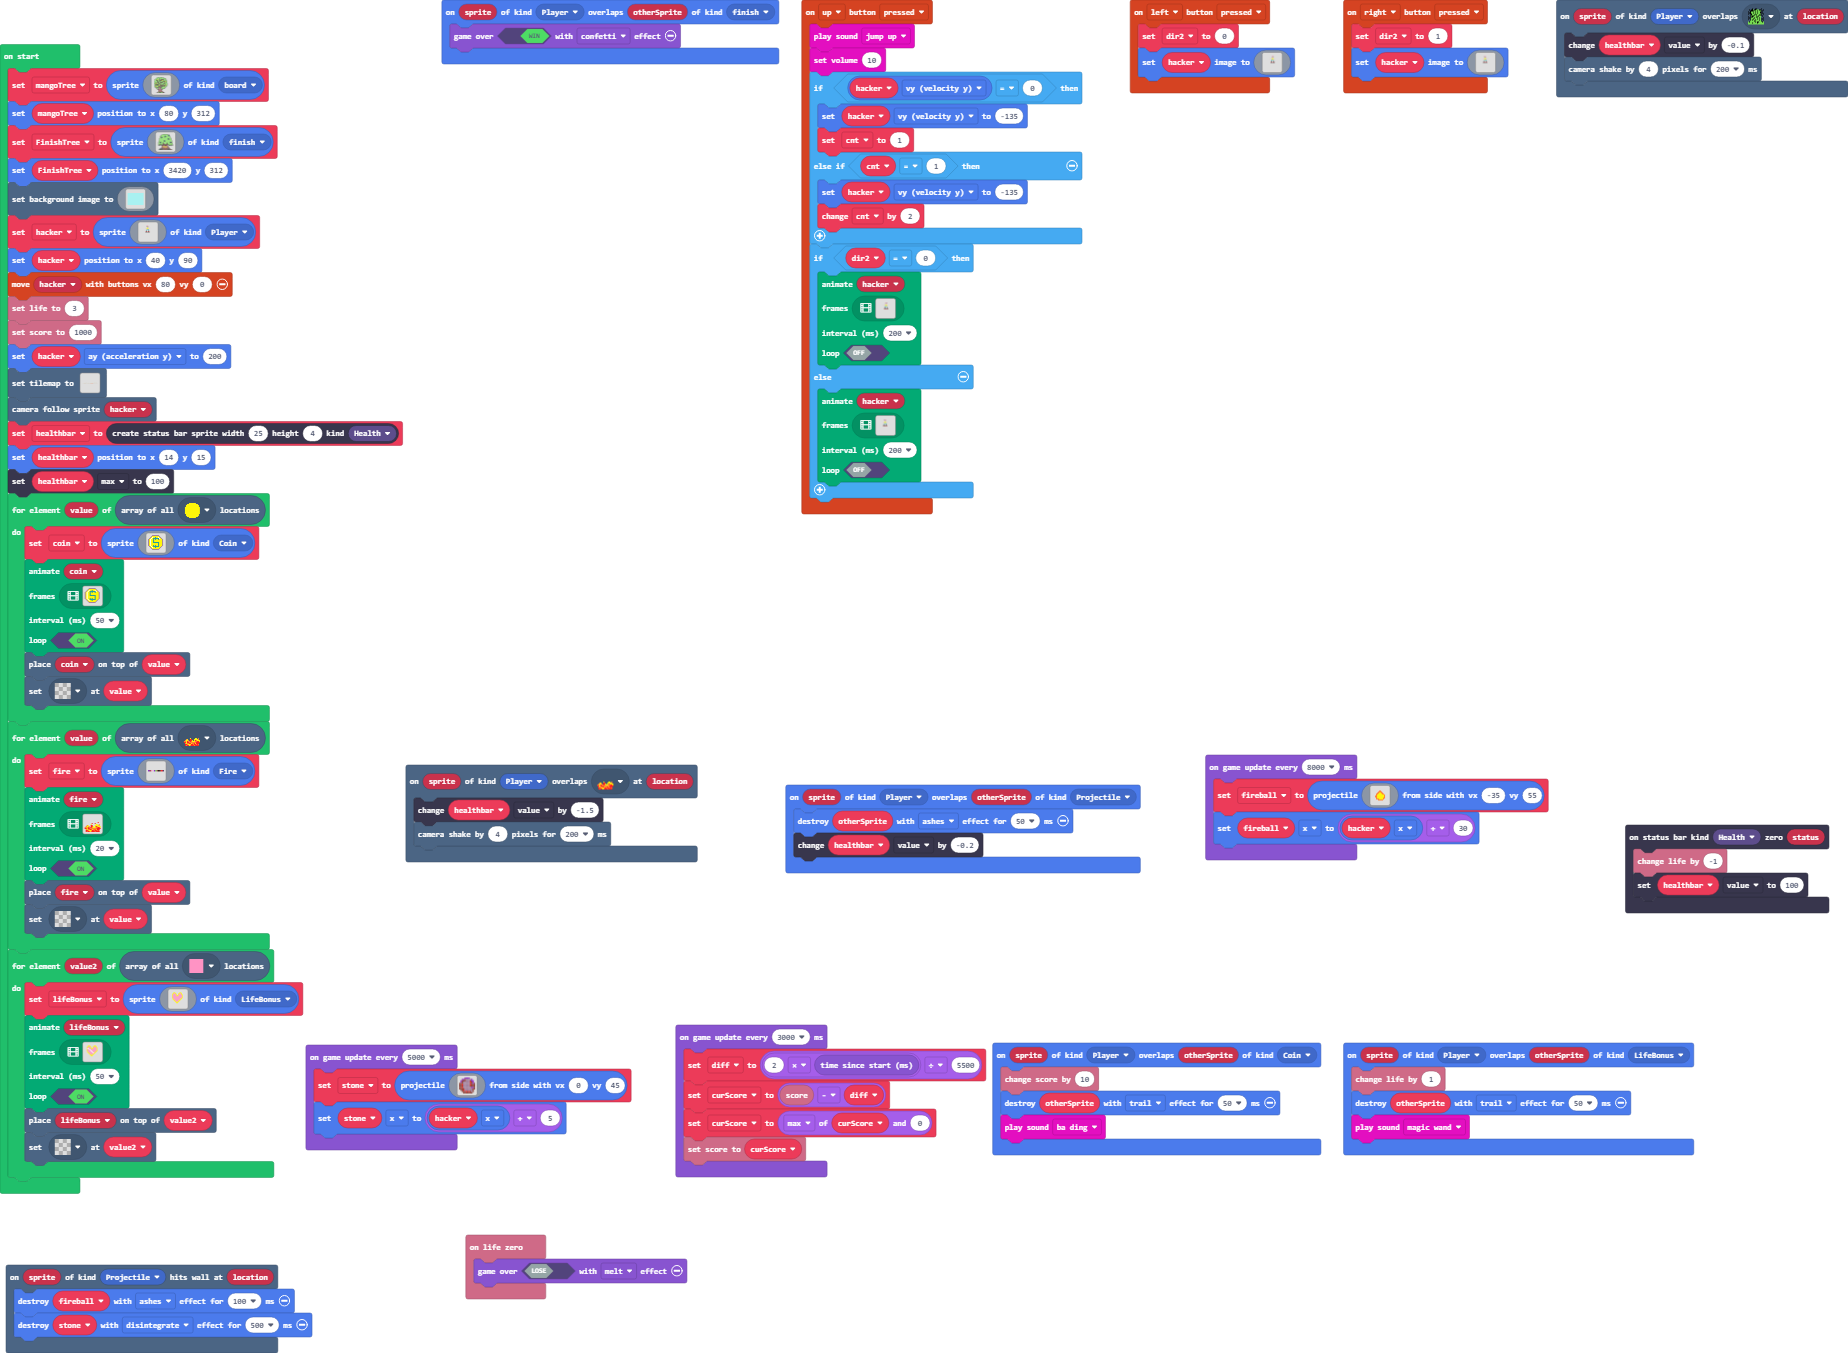
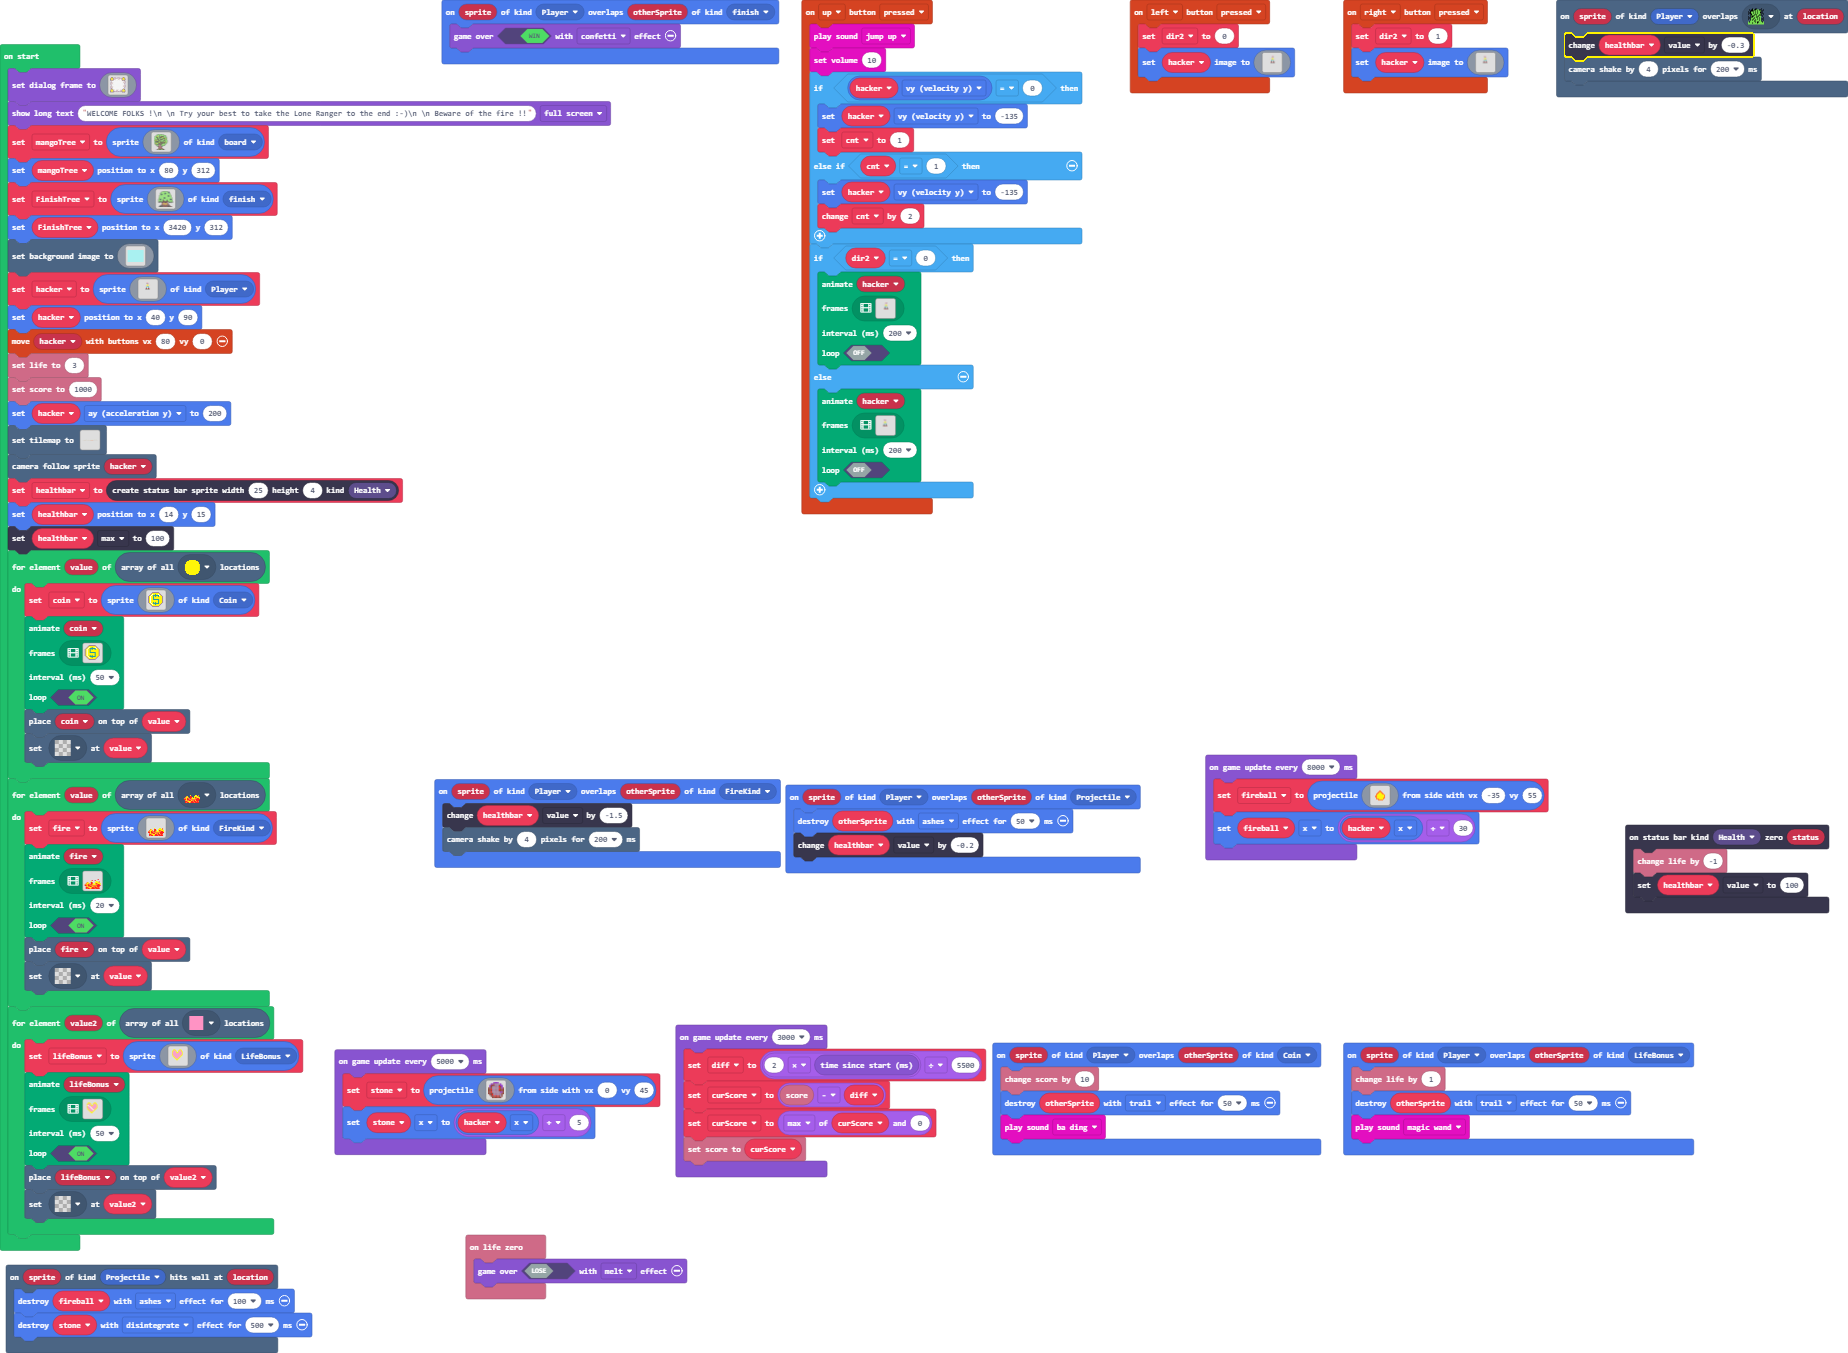
Update main.blocks, main.ts, main.py, tilemap.g.jres, tilemap.g.ts, images.g.jres, images.g.ts

Changed region(s): [[0.0, 0.031, 0.3701, 0.9313], [0.2159, 0.5588, 0.4318, 0.6519]]

diff --git a/main.ts b/main.ts
@@ -46,6 +46,10 @@ sprites.onOverlap(SpriteKind.Player, SpriteKind.Coin, function (sprite, otherSpr
     otherSprite.destroy(effects.trail, 50)
     music.baDing.play()
 })
+sprites.onOverlap(SpriteKind.Player, SpriteKind.FireKind, function (sprite, otherSprite) {
+    healthbar.value += -1.5
+    scene.cameraShake(4, 200)
+})
 controller.left.onEvent(ControllerButtonEvent.Pressed, function () {
     dir2 = 0
     hacker.setImage(assets.image`Temporary asset3`)
@@ -63,7 +67,7 @@ sprites.onOverlap(SpriteKind.Player, SpriteKind.Projectile, function (sprite, ot
     healthbar.value += -0.2
 })
 scene.onOverlapTile(SpriteKind.Player, assets.tile`cactus`, function (sprite, location) {
-    healthbar.value += -0.1
+    healthbar.value += -0.3
     scene.cameraShake(4, 200)
 })
 info.onLifeZero(function () {
@@ -72,10 +76,6 @@ info.onLifeZero(function () {
 scene.onHitWall(SpriteKind.Projectile, function (sprite, location) {
     fireball.destroy(effects.ashes, 100)
     stone.destroy(effects.disintegrate, 500)
-})
-scene.onOverlapTile(SpriteKind.Player, assets.tile`fireTop`, function (sprite, location) {
-    healthbar.value += -1.5
-    scene.cameraShake(4, 200)
 })
 let curScore = 0
 let diff = 0
@@ -88,6 +88,42 @@ let fire: Sprite = null
 let coin: Sprite = null
 let healthbar: StatusBarSprite = null
 let hacker: Sprite = null
+game.setDialogFrame(img`
+    ...cc......................cc....
+    ..c55c..bbbb...bbbbb......c55c...
+    .cb55bcbdddbbbbbdddbbbbbbcb55bc..
+    b555555bbdddb111bdddb11db555555b.
+    bb5555bbdbdb11111bdb1111bb5555bb.
+    cb5555bcddd11111ddd11111cb5555bc.
+    .c5bb5c1111d111d111d111ddc5bb5c..
+    .cbbbbc111111111111111111cbbbbc..
+    ..b11111111111111111111111d111bb.
+    ..b111111111111111111111111d1bdb.
+    ..bb11111111111111111111111dbddb.
+    .bbdb1d11111111111111111111ddddb.
+    .bdddd11111111111111111111d1bdbb.
+    .bddbd11111111111111111111111bb..
+    .bdb1d111111111111111111111111b..
+    .bb111d11111111111111111111111b..
+    ..b11111111111111111111111d111bb.
+    ..b111111111111111111111111d1bdb.
+    ..bb11111111111111111111111dbddb.
+    .bbdb1d11111111111111111111ddddb.
+    .bdddd11111111111111111111d1bdbb.
+    .bddbd11111111111111111111111bb..
+    .bdbb1111111111111111111111111b..
+    .bbbd1111111111111111111111111b..
+    ..bcc111111111111111111111dccdb..
+    ..c55c111d111d111d111d1111c55cb..
+    .cb55bcdd11111ddd11111dddcb55bc..
+    b555555b11111bdb11111bdbb555555b.
+    bb5555bbb111bdddb111bdddbb5555bb.
+    cb5555bcdbbbbbdddbbbbbddcb5555bc.
+    .c5bb5c.bb...bbbbb...bbbbc5bb5c..
+    .cbbbbc..................cbbbbc..
+    .................................
+    `)
+game.showLongText("WELCOME FOLKS !\\n \\n Try your best to take the Lone Ranger to the end :-)\\n \\n Beware of the fire !!", DialogLayout.Full)
 let mangoTree = sprites.create(assets.image`mangoTree`, SpriteKind.board)
 mangoTree.setPosition(80, 312)
 let FinishTree = sprites.create(assets.image`finishTree`, SpriteKind.finish)
@@ -237,9 +273,7 @@ for (let value of tiles.getTilesByType(assets.tile`tileCoin`)) {
     tiles.setTileAt(value, assets.tile`transparency16`)
 }
 for (let value of tiles.getTilesByType(assets.tile`fireTop`)) {
-    fire = sprites.create(img`
-        a e 3 . a 7 e f e 2 c 
-        `, SpriteKind.Fire)
+    fire = sprites.create(assets.image`fireTopimage`, SpriteKind.FireKind)
     animation.runImageAnimation(
     fire,
     assets.animation`fireAnim`,

diff --git a/images.g.ts b/images.g.ts
@@ -1583,6 +1583,72 @@ a e 3 . a 7 e f e 2 c
             case "image26":return img`
 a e 3 . a 7 e f e 2 c 
 `;
+            case "image27":return img`
+...cc......................cc....
+..c55c..bbbb...bbbbb......c55c...
+.cb55bcbdddbbbbbdddbbbbbbcb55bc..
+b555555bbdddb111bdddb11db555555b.
+bb5555bbdbdb11111bdb1111bb5555bb.
+cb5555bcddd11111ddd11111cb5555bc.
+.c5bb5c1111d111d111d111ddc5bb5c..
+.cbbbbc111111111111111111cbbbbc..
+..b11111111111111111111111d111bb.
+..b111111111111111111111111d1bdb.
+..bb11111111111111111111111dbddb.
+.bbdb1d11111111111111111111ddddb.
+.bdddd11111111111111111111d1bdbb.
+.bddbd11111111111111111111111bb..
+.bdb1d111111111111111111111111b..
+.bb111d11111111111111111111111b..
+..b11111111111111111111111d111bb.
+..b111111111111111111111111d1bdb.
+..bb11111111111111111111111dbddb.
+.bbdb1d11111111111111111111ddddb.
+.bdddd11111111111111111111d1bdbb.
+.bddbd11111111111111111111111bb..
+.bdbb1111111111111111111111111b..
+.bbbd1111111111111111111111111b..
+..bcc111111111111111111111dccdb..
+..c55c111d111d111d111d1111c55cb..
+.cb55bcdd11111ddd11111dddcb55bc..
+b555555b11111bdb11111bdbb555555b.
+bb5555bbb111bdddb111bdddbb5555bb.
+cb5555bcdbbbbbdddbbbbbddcb5555bc.
+.c5bb5c.bb...bbbbb...bbbbc5bb5c..
+.cbbbbc..................cbbbbc..
+.................................
+`;
+            case "image29":return img`
+a e 3 . a 7 e f e 2 c 
+`;
+            case "image30":return img`
+a e 3 . a 7 e f e 2 c 
+`;
+            case "image31":return img`
+a e 3 . a 7 e f e 2 c 
+`;
+            case "image32":return img`
+a e 3 . a 7 e f e 2 c 
+`;
+            case "image33":
+            case "fireTopimage":return img`
+. . . . . . . . . . . . . . . . 
+. . . . . . . . . . . . . . . . 
+. . . . . . . . . . . . . . . . 
+. . . . . . . . . . . . . . . . 
+. . . . . . . . . . . . . . . . 
+. . . . . . . . . . . . . . . . 
+. . . . . . . . . . . . . . . . 
+. . . . . . . . . . . . . . . . 
+. . . . . . 5 . . . . 5 5 . 4 . 
+. . 4 5 . . 2 2 . . 5 5 5 5 4 . 
+. 4 5 5 4 . 2 2 5 . 5 2 4 5 5 5 
+4 4 5 2 4 4 2 4 5 5 5 4 4 2 2 5 
+2 2 5 2 2 4 4 4 4 4 4 4 2 2 2 2 
+. 4 5 4 4 2 2 5 4 4 2 5 2 2 2 . 
+. 2 2 4 5 5 5 2 2 4 2 2 4 2 4 . 
+. 2 4 2 2 5 4 2 2 2 4 2 2 2 2 . 
+`;
         }
         return null;
     })

diff --git a/tilemap.g.ts b/tilemap.g.ts
@@ -15,11 +15,11 @@ namespace myTiles {
     //% fixedInstance jres blockIdentity=images._tile
     export const tile8 = image.ofBuffer(hex``);
     //% fixedInstance jres blockIdentity=images._tile
-    export const tile6 = image.ofBuffer(hex``);
-    //% fixedInstance jres blockIdentity=images._tile
     export const tile9 = image.ofBuffer(hex``);
     //% fixedInstance jres blockIdentity=images._tile
     export const tile2 = image.ofBuffer(hex``);
+    //% fixedInstance jres blockIdentity=images._tile
+    export const tile6 = image.ofBuffer(hex``);
 
     helpers._registerFactory("tilemap", function(name: string) {
         switch(helpers.stringTrim(name)) {
@@ -163,12 +163,12 @@ namespace myTiles {
             case "tile7":return tile7;
             case "tileCoin":
             case "tile8":return tile8;
-            case "fire":
-            case "tile6":return tile6;
             case "cloudTile":
             case "tile9":return tile9;
             case "fireTop":
             case "tile2":return tile2;
+            case "fire":
+            case "tile6":return tile6;
         }
         return null;
     })

diff --git a/main.py b/main.py
@@ -114,6 +114,43 @@ fire: Sprite = None
 coin: Sprite = None
 healthbar: StatusBarSprite = None
 hacker: Sprite = None
+game.set_dialog_frame(img("""
+    ...cc......................cc....
+        ..c55c..bbbb...bbbbb......c55c...
+        .cb55bcbdddbbbbbdddbbbbbbcb55bc..
+        b555555bbdddb111bdddb11db555555b.
+        bb5555bbdbdb11111bdb1111bb5555bb.
+        cb5555bcddd11111ddd11111cb5555bc.
+        .c5bb5c1111d111d111d111ddc5bb5c..
+        .cbbbbc111111111111111111cbbbbc..
+        ..b11111111111111111111111d111bb.
+        ..b111111111111111111111111d1bdb.
+        ..bb11111111111111111111111dbddb.
+        .bbdb1d11111111111111111111ddddb.
+        .bdddd11111111111111111111d1bdbb.
+        .bddbd11111111111111111111111bb..
+        .bdb1d111111111111111111111111b..
+        .bb111d11111111111111111111111b..
+        ..b11111111111111111111111d111bb.
+        ..b111111111111111111111111d1bdb.
+        ..bb11111111111111111111111dbddb.
+        .bbdb1d11111111111111111111ddddb.
+        .bdddd11111111111111111111d1bdbb.
+        .bddbd11111111111111111111111bb..
+        .bdbb1111111111111111111111111b..
+        .bbbd1111111111111111111111111b..
+        ..bcc111111111111111111111dccdb..
+        ..c55c111d111d111d111d1111c55cb..
+        .cb55bcdd11111ddd11111dddcb55bc..
+        b555555b11111bdb11111bdbb555555b.
+        bb5555bbb111bdddb111bdddbb5555bb.
+        cb5555bcdbbbbbdddbbbbbddcb5555bc.
+        .c5bb5c.bb...bbbbb...bbbbc5bb5c..
+        .cbbbbc..................cbbbbc..
+        .................................
+"""))
+game.show_long_text("WELCOME FOLKS !\\n \\n Try your best to take the Lone Ranger to the end :-)\\n \\n Beware of the fire !!",
+    DialogLayout.FULL)
 mangoTree = sprites.create(assets.image("""
     mangoTree
 """), SpriteKind.board)
